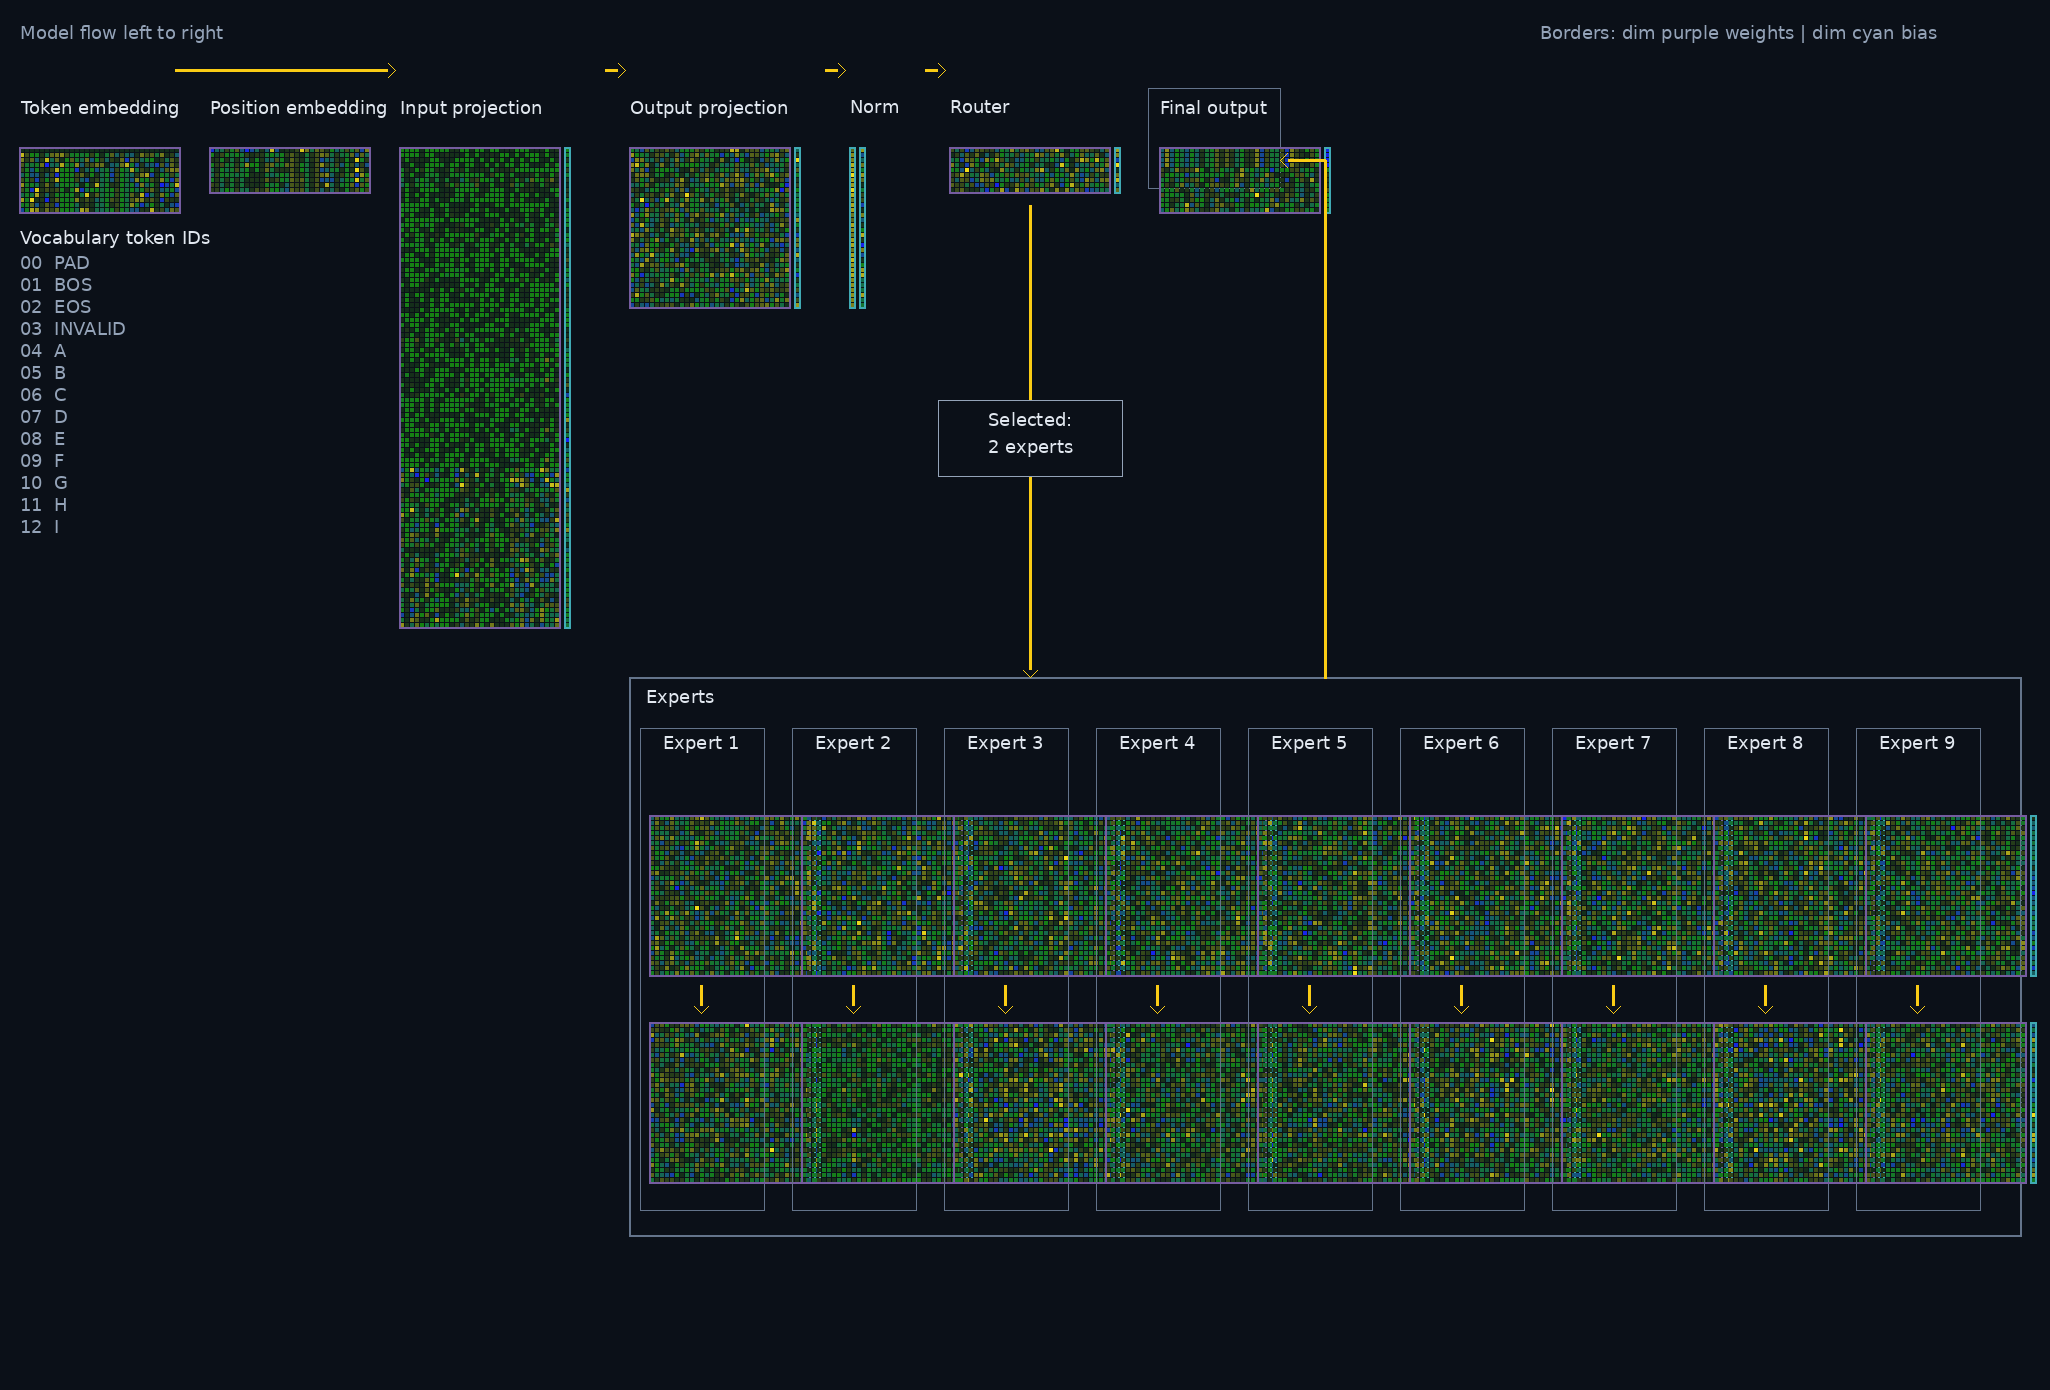
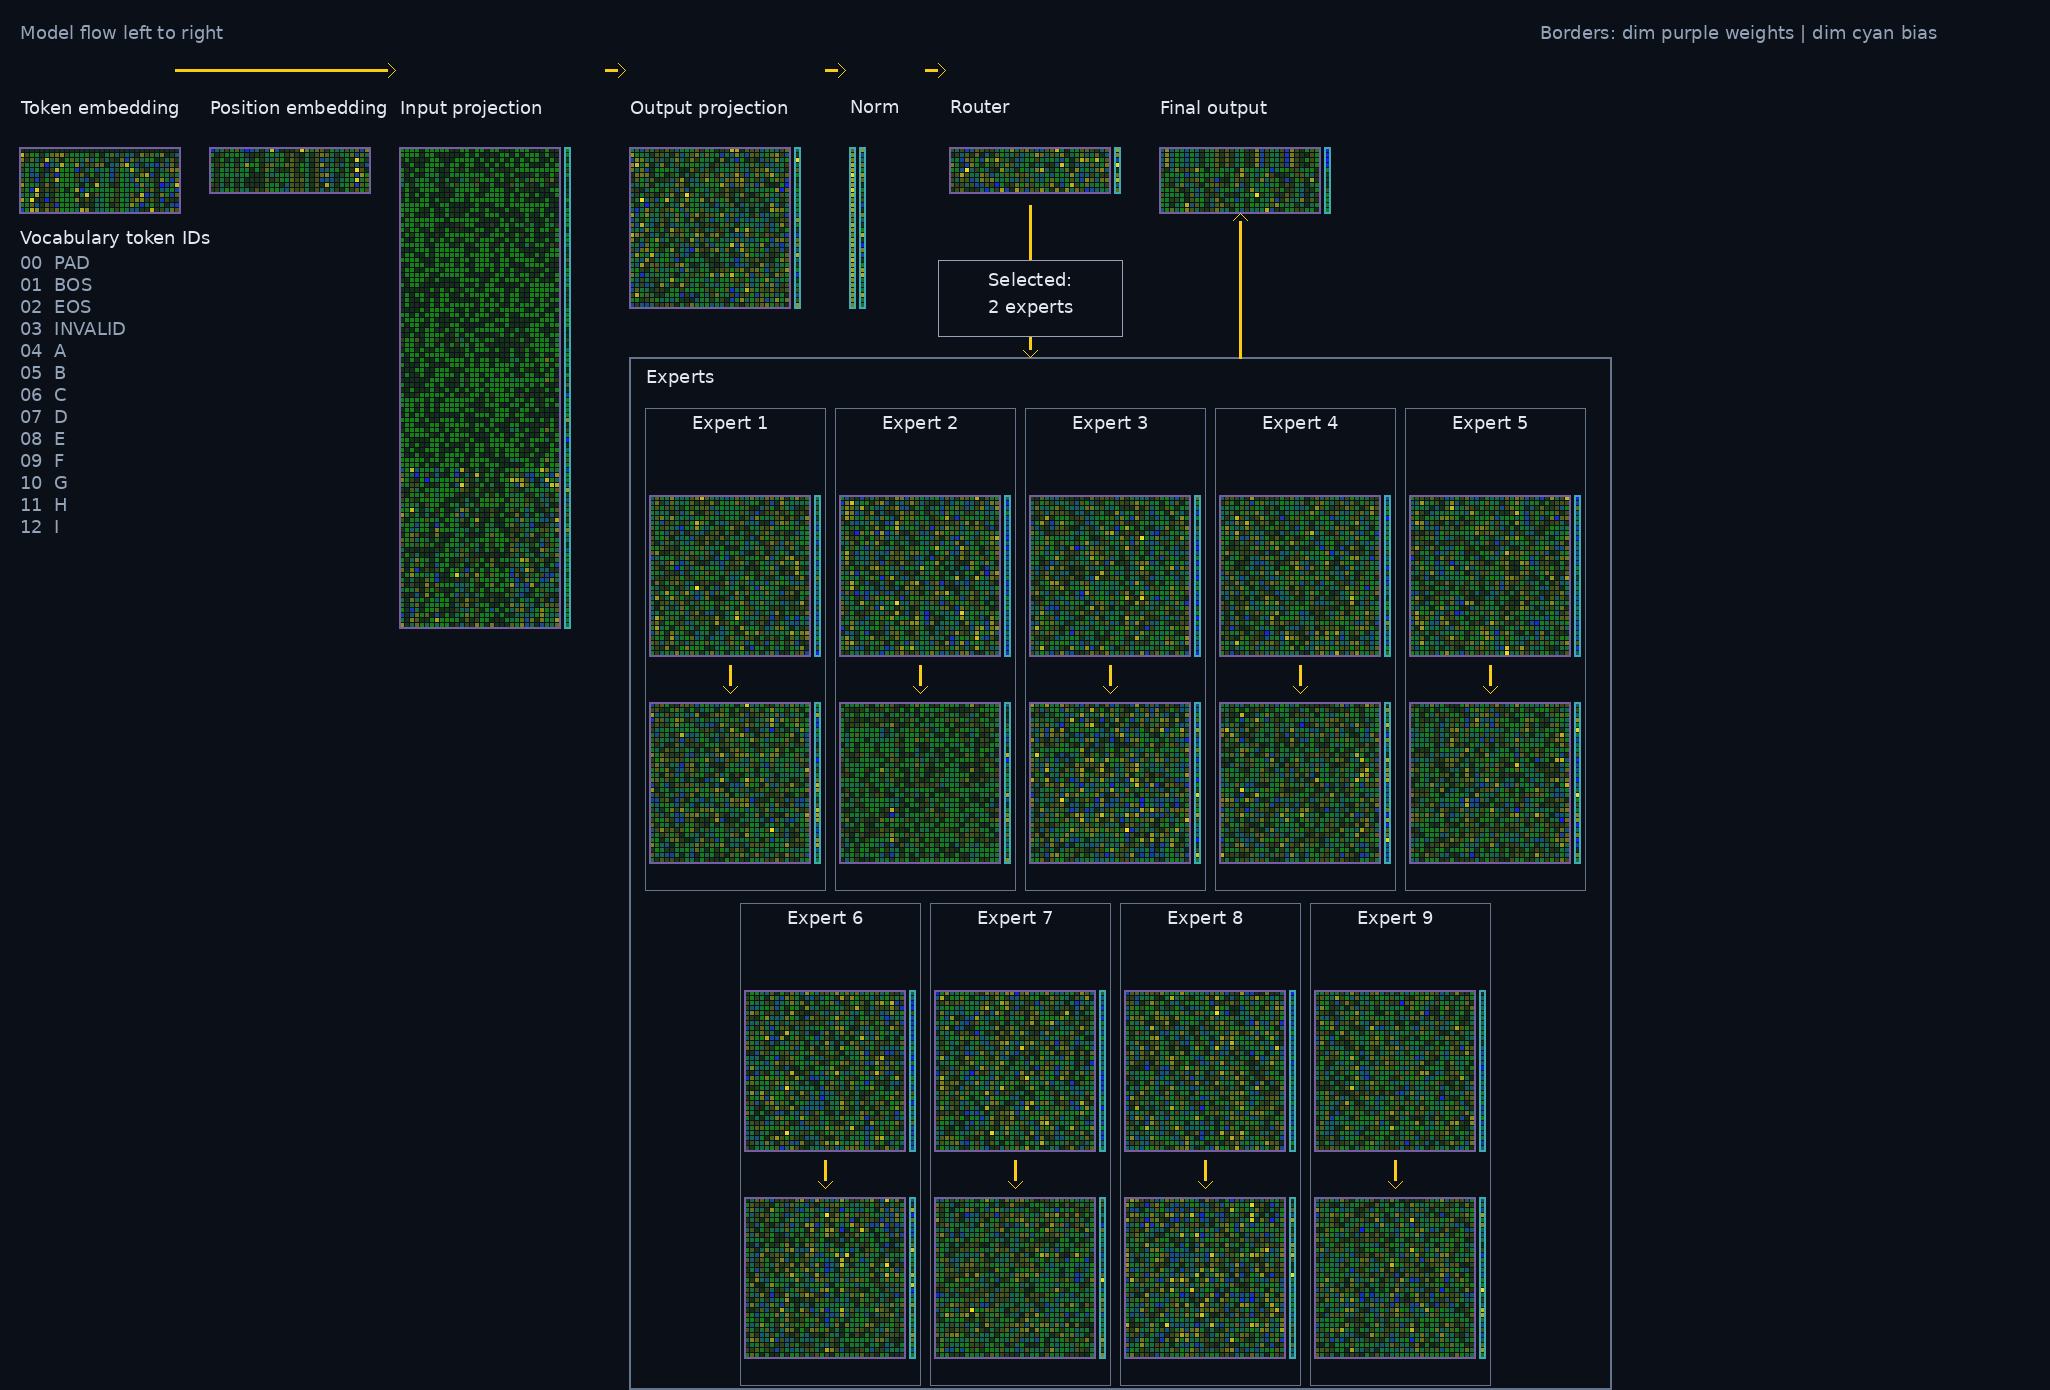
Fix tensor inspector expert containment

diff --git a/tools/tensor_inspector.py b/tools/tensor_inspector.py
@@ -189,9 +189,6 @@ def render_checkpoint_inspector(source: Path) -> tuple[bytes, dict[str, object]]
     _render_pair(rgb, width, state, "attention.out_proj.weight", "attention.out_proj.bias", "Output projection", 630, top_y)
     _render_pair(rgb, width, state, "norm.weight", "norm.bias", "Norm", 850, top_y)
     _render_pair(rgb, width, state, "router.weight", "router.bias", "Router", 950, top_y)
-    # The Final output outer boundary gives the return path a truthful destination without drawing through a tensor grid.
-    final_panel_left, final_panel_top, final_panel_right, final_panel_bottom = 1148, 88, 1280, 188
-    _rectangle(rgb, width, final_panel_left, final_panel_top, final_panel_right - final_panel_left, final_panel_bottom - final_panel_top, _EXPERT_BORDER, 1)
     _render_pair(rgb, width, state, "output.weight", "output.bias", "Final output", 1160, top_y)
     _render_vocabulary(rgb, width, 20, 230)
 
@@ -200,44 +197,45 @@ def render_checkpoint_inspector(source: Path) -> tuple[bytes, dict[str, object]]
     _arrow(rgb, width, 825, flow_y, 845, flow_y)
     _arrow(rgb, width, 925, flow_y, 945, flow_y)
 
-    # Begin directly under Output projection and give each expert enough breathing room around its paired matrices.
-    expert_y, expert_gap, expert_width = 720, 12, 140
+    # Begin below Output projection, then use a 5+4 grid so every expert can contain its full weight+bias pair.
+    expert_y, expert_gap, expert_width = 400, 10, 180
     router_center = 1030
-    expert_left, expert_right = 630, 2020
-    expert_top, expert_bottom = expert_y - 42, 1235
+    expert_left, expert_right = 630, 1610
+    expert_top, expert_bottom = 358, 1388
     _rectangle(rgb, width, expert_left, expert_top, expert_right - expert_left, expert_bottom - expert_top, _EXPERT_BORDER)
     _text(rgb, width, expert_left + 16, expert_top + 12, "Experts", _LABEL)
     _arrow(rgb, width, router_center, 205, router_center, expert_top - 1)
-    selection_x, selection_y, selection_width, selection_height = router_center - 92, 400, 184, 76
+    selection_x, selection_y, selection_width, selection_height = router_center - 92, 260, 184, 76
     _fill_rectangle(rgb, width, selection_x, selection_y, selection_width, selection_height, (11, 16, 24))
     _rectangle(rgb, width, selection_x, selection_y, selection_width, selection_height, _MUTED, 1)
-    _centered_text(rgb, width, router_center, 412, "Selected:", _LABEL)
-    _centered_text(rgb, width, router_center, 440, "2 experts", _LABEL)
+    _centered_text(rgb, width, router_center, 272, "Selected:", _LABEL)
+    _centered_text(rgb, width, router_center, 300, "2 experts", _LABEL)
     for expert in range(9):
-        x = 650 + expert * (expert_width + expert_gap)
-        box_top, box_bottom = expert_y + 8, expert_y + 490
-        _rectangle(rgb, width, x - 10, box_top, 124, box_bottom - box_top, _EXPERT_BORDER, 1)
-        _centered_text(rgb, width, x + 51, box_top + 8, f"Expert {expert + 1}", _LABEL)
-        _render_pair(rgb, width, state, f"experts.{expert}.0.weight", f"experts.{expert}.0.bias", "", x, expert_y + 48)
-        _render_pair(rgb, width, state, f"experts.{expert}.2.weight", f"experts.{expert}.2.bias", "", x, expert_y + 255)
-        _arrow(rgb, width, x + 51, expert_y + 265, x + 51, expert_y + 293)
-    # Return in a dedicated outer lane, then enter the Final output panel boundary rather than its matrix.
-    output_return_x, output_return_y = 1325, 160
-    _line(rgb, width, output_return_x, expert_top, output_return_x, output_return_y)
-    _arrow(rgb, width, output_return_x, output_return_y, final_panel_right, output_return_y)
+        row, column = divmod(expert, 5)
+        row_y = expert_y + row * 495
+        x = (650 if row == 0 else 745) + column * (expert_width + expert_gap)
+        box_top, box_bottom = row_y + 8, row_y + 490
+        _rectangle(rgb, width, x - 5, box_top, 180, box_bottom - box_top, _EXPERT_BORDER, 1)
+        _centered_text(rgb, width, x + 80, box_top + 8, f"Expert {expert + 1}", _LABEL)
+        _render_pair(rgb, width, state, f"experts.{expert}.0.weight", f"experts.{expert}.0.bias", "", x, row_y + 48)
+        _render_pair(rgb, width, state, f"experts.{expert}.2.weight", f"experts.{expert}.2.bias", "", x, row_y + 255)
+        _arrow(rgb, width, x + 80, row_y + 265, x + 80, row_y + 293)
+    # The return uses a straight reserved lane and terminates immediately below the Final output weight matrix.
+    output_return_x, output_matrix_bottom = 1240, 213
+    _arrow(rgb, width, output_return_x, expert_top, output_return_x, output_matrix_bottom)
 
     metadata = {
-        "format": "crystal-9-tensor-inspector-v11", "source": source.name,
+        "format": "crystal-9-tensor-inspector-v12", "source": source.name,
         "source_sha256": hashlib.sha256(source.read_bytes()).hexdigest(), "tensor_count": len(state),
-        "normalization": "per-tensor symmetric max-absolute", "layout": "architecture-flow-v11",
+        "normalization": "per-tensor symmetric max-absolute", "layout": "architecture-flow-v12",
         "bias_alignment": "vertical output-row axis", "sections": ["inputs", "attention", "norm_router", "experts", "output"],
         "legend": {"WEIGHTS": "matrix; rows are output features", "BIAS": "bias column; one value per output row", "B": "bias column; one value per output row"},
-        "expert_layout": "nine Expert boxes, each containing its first and second layer",
+        "expert_layout": "five Expert boxes over four Expert boxes; each contains its first and second layer",
         "calculation_flow": ["embeddings and positions", "attention", "norm and router", "top-2 routed experts", "combined output"],
         "vocabulary": _VOCABULARY, "font": "DejaVu Sans", "router_selection_label": "Selected: 2 experts",
         "router_selection_lines": ["Selected:", "2 experts"], "router_selection_shape": "gray outlined rectangle",
         "router_path": "continuous downward arrow touching the Experts outline",
-        "expert_return_path": "dedicated outer lane enters the Final output panel boundary",
+        "expert_return_path": "straight upward arrow ends below Final output matrix",
         "intra_expert_arrows": "compact clear gap between first and second layer matrices",
         "border_legend": {"dim purple": "weight matrix", "dim cyan": "bias vector"}, "experts_outline": "slate gray",
         "tensors": inventory, "width": width, "height": height,

diff --git a/tests/test_tensor_inspector.py b/tests/test_tensor_inspector.py
@@ -15,11 +15,11 @@ def test_checkpoint_inspector_renders_actual_tensor_inventory_as_png():
     assert metadata["tensors"]["attention.in_proj_weight"]["shape"] == [96, 32]
     assert metadata["tensors"]["experts.0.0.weight"]["shape"] == [32, 32]
     assert metadata["normalization"] == "per-tensor symmetric max-absolute"
-    assert metadata["layout"] == "architecture-flow-v11"
+    assert metadata["layout"] == "architecture-flow-v12"
     assert metadata["bias_alignment"] == "vertical output-row axis"
     assert metadata["sections"][-2:] == ["experts", "output"]
     assert metadata["legend"]["B"] == "bias column; one value per output row"
-    assert metadata["expert_layout"] == "nine Expert boxes, each containing its first and second layer"
+    assert metadata["expert_layout"] == "five Expert boxes over four Expert boxes; each contains its first and second layer"
     assert metadata["calculation_flow"] == ["embeddings and positions", "attention", "norm and router", "top-2 routed experts", "combined output"]
     assert metadata["vocabulary"] == ["<pad>", "<bos>", "<eos>", "!", "a", "b", "c", "d", "e", "f", "g", "h", "i"]
     assert metadata["font"] == "DejaVu Sans"
@@ -27,7 +27,7 @@ def test_checkpoint_inspector_renders_actual_tensor_inventory_as_png():
     assert metadata["router_selection_lines"] == ["Selected:", "2 experts"]
     assert metadata["router_selection_shape"] == "gray outlined rectangle"
     assert metadata["router_path"] == "continuous downward arrow touching the Experts outline"
-    assert metadata["expert_return_path"] == "dedicated outer lane enters the Final output panel boundary"
+    assert metadata["expert_return_path"] == "straight upward arrow ends below Final output matrix"
     assert metadata["intra_expert_arrows"] == "compact clear gap between first and second layer matrices"
     assert metadata["border_legend"] == {"dim purple": "weight matrix", "dim cyan": "bias vector"}
     assert metadata["experts_outline"] == "slate gray"

diff --git a/tools/export_tensor_inspectors.py b/tools/export_tensor_inspectors.py
@@ -31,7 +31,7 @@ def main() -> None:
             "tensor_count": metadata["tensor_count"], "width": metadata["width"], "height": metadata["height"],
             "normalization": metadata["normalization"], "derived": True,
         })
-    (OUTPUT.parent / "inspectors.json").write_text(json.dumps({"format": "crystal-9-tensor-inspector-v11", "inspectors": inspectors}, indent=2) + "\n")
+    (OUTPUT.parent / "inspectors.json").write_text(json.dumps({"format": "crystal-9-tensor-inspector-v12", "inspectors": inspectors}, indent=2) + "\n")
 
 
 if __name__ == "__main__":
